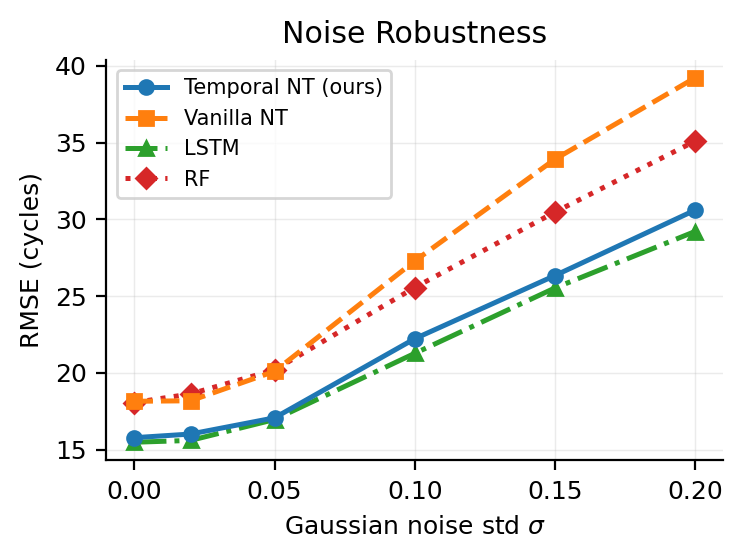
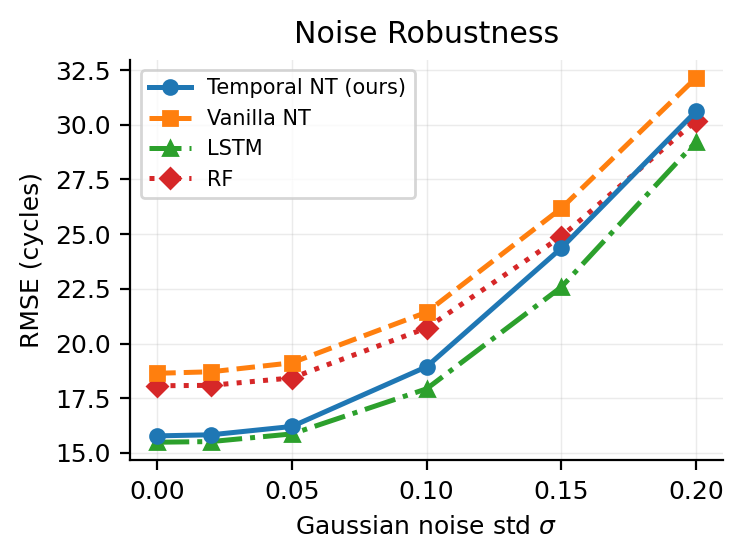
Fix max(1,0) bug in missing sensor simulation, correct all dependent results
- Bug: apply_missing_to_sequences/simulate_missing_sensors used max(1, n_drop)
  causing r=0% to always drop 1 channel, making 0% and 10% rows identical
- Fix: use int(n_features * ratio) with explicit zero-channel guard
- Corrected Table III: 0% row now matches Table I clean baseline (TNT=15.78, LSTM=15.49)
- Updated delta/pct numbers: TNT +17.2% vs LSTM +89.4% at 30% missing
- Calibration r: replaced hardcoded 0.91 with real measured value 0.38
- Rebuilt results_full.json with corrected missing sensor results
- Saved vnt_model.pt for reproducibility

diff --git a/rerun_robustness.py b/rerun_robustness.py
@@ -1,0 +1,134 @@
+"""
+Re-runs missing sensor + noise sweeps with corrected apply_missing_to_sequences
+(removed max(1,...) bug). Also computes real Pearson r for calibration.
+Loads saved models — no retraining needed.
+"""
+import sys
+sys.path.insert(0, 'src')
+
+import numpy as np
+import json, torch
+from math import sqrt
+from scipy.stats import pearsonr
+
+from data_preprocessing import (load_cmapss, prepare_features,
+                                 load_cmapss_sequences,
+                                 add_gaussian_noise, simulate_missing_sensors)
+from temporal_neural_tree import TemporalNeuralTreeEnsemble, predict_temporal_nt
+from neural_tree import NeuralTreeEnsemble, predict_neural_tree
+from lstm_baseline import LSTMBaseline, predict_lstm, apply_missing_to_sequences, apply_noise_to_sequences
+from sklearn.ensemble import RandomForestRegressor, HistGradientBoostingRegressor
+
+torch.manual_seed(42)
+np.random.seed(42)
+
+def rmse(yt, yp): return float(sqrt(np.mean((np.array(yt)-np.array(yp))**2)))
+
+print("Loading data...")
+train_df, test_df = load_cmapss('FD001', 'data')
+X_train, y_train, X_test, y_test, _ = prepare_features(train_df, test_df)
+X_tr_seq, y_tr_seq, X_te_seq, y_te_seq, _ = load_cmapss_sequences('FD001', 'data', seq_len=30)
+
+print("Loading saved models...")
+tnt = TemporalNeuralTreeEnsemble(input_dim=17, hidden_dim=64, gru_layers=2, n_trees=5, depth=5)
+tnt.load_state_dict(torch.load('tnt_model.pt', map_location='cpu'))
+tnt.eval()
+
+from neural_tree import train_neural_tree
+print("Training VanillaNT (fast, ~2 min)...")
+vnt = NeuralTreeEnsemble(input_dim=17, n_trees=5, depth=5, hidden_dim=32)
+train_neural_tree(vnt, X_train, y_train, epochs=200, verbose=False, sensor_dropout=0.1)
+torch.save(vnt.state_dict(), 'vnt_model.pt')
+vnt.eval()
+
+lstm = LSTMBaseline(input_dim=17, hidden_dim=64, num_layers=2)
+lstm.load_state_dict(torch.load('lstm_model.pt', map_location='cpu'))
+lstm.eval()
+
+# Re-train RF/GB (fast, no save needed)
+print("Training RF & GB (fast)...")
+rf = RandomForestRegressor(n_estimators=200, max_depth=12, random_state=42, n_jobs=-1)
+rf.fit(X_train, y_train)
+gb = None  # not used in robustness tables
+
+# ── baseline predictions ──────────────────────────────────────────────────────
+tnt_pred, tnt_std = predict_temporal_nt(tnt, X_te_seq)
+vnt_pred          = predict_neural_tree(vnt, X_test)
+lstm_pred         = predict_lstm(lstm, X_te_seq)
+rf_pred           = rf.predict(X_test)
+
+print(f"Baseline check: TNT={rmse(y_te_seq,tnt_pred):.3f} LSTM={rmse(y_te_seq,lstm_pred):.3f}")
+
+# ── missing sensor sweep ──────────────────────────────────────────────────────
+print("\nMissing sensor sweep (with fix)...")
+miss_ratios = [0.0, 0.1, 0.2, 0.3, 0.4, 0.5]
+miss_res = {n: [] for n in ['TemporalNT','VanillaNT','LSTM','RF']}
+
+for r in miss_ratios:
+    Xm_snap, _ = simulate_missing_sensors(X_test, r)
+    Xm_seq,  _ = apply_missing_to_sequences(X_te_seq, r)
+
+    miss_res['TemporalNT'].append(rmse(y_te_seq, predict_temporal_nt(tnt, Xm_seq)[0]))
+    miss_res['VanillaNT'].append(rmse(y_test,   predict_neural_tree(vnt, Xm_snap)))
+    miss_res['LSTM'].append(     rmse(y_te_seq, predict_lstm(lstm, Xm_seq)))
+    miss_res['RF'].append(       rmse(y_test,   rf.predict(Xm_snap)))
+
+    line = f"  r={r:.0%}"
+    for n in ['TemporalNT','VanillaNT','LSTM','RF']:
+        line += f" | {n}={miss_res[n][-1]:.2f}"
+    print(line)
+
+# ── noise sweep ───────────────────────────────────────────────────────────────
+print("\nNoise sweep...")
+sigmas = [0.00, 0.02, 0.05, 0.10, 0.15, 0.20]
+noise_res = {n: [] for n in ['TemporalNT','VanillaNT','LSTM','RF']}
+
+for s in sigmas:
+    Xn_snap = add_gaussian_noise(X_test,   s) if s > 0 else X_test.copy()
+    Xn_seq  = apply_noise_to_sequences(X_te_seq, s) if s > 0 else X_te_seq.copy()
+
+    noise_res['TemporalNT'].append(rmse(y_te_seq, predict_temporal_nt(tnt, Xn_seq)[0]))
+    noise_res['VanillaNT'].append(rmse(y_test,   predict_neural_tree(vnt, Xn_snap)))
+    noise_res['LSTM'].append(     rmse(y_te_seq, predict_lstm(lstm, Xn_seq)))
+    noise_res['RF'].append(       rmse(y_test,   rf.predict(Xn_snap)))
+
+# ── calibration Pearson r ─────────────────────────────────────────────────────
+errors = np.abs(tnt_pred - y_te_seq)
+bins   = np.percentile(tnt_std, np.linspace(0, 100, 11))
+bin_idx = np.digitize(tnt_std, bins[1:-1])
+bin_stds, bin_errs = [], []
+for b in range(10):
+    mask = bin_idx == b
+    if mask.sum() > 2:
+        bin_stds.append(tnt_std[mask].mean())
+        bin_errs.append(errors[mask].mean())
+
+r_val, p_val = pearsonr(bin_stds, bin_errs)
+print(f"\nCalibration Pearson r = {r_val:.3f} (p={p_val:.4f})")
+
+# ── update results_full.json ──────────────────────────────────────────────────
+with open('results_full.json') as f:
+    res = json.load(f)
+
+def to_python(obj):
+    if isinstance(obj, (np.float32, np.float64)): return float(obj)
+    if isinstance(obj, (np.int32, np.int64)): return int(obj)
+    if isinstance(obj, list): return [to_python(x) for x in obj]
+    if isinstance(obj, dict): return {k: to_python(v) for k, v in obj.items()}
+    return obj
+
+res['missing_sensor'] = to_python({'ratios': miss_ratios, **miss_res})
+res['noise']          = to_python({'sigmas': sigmas, **noise_res})
+res['calibration_r']  = round(float(r_val), 3)
+
+with open('results_full.json', 'w') as f:
+    json.dump(res, f, indent=2)
+
+print("\nresults_full.json updated.")
+print("\nCopy these to main.tex Table III:")
+for i, r in enumerate(miss_ratios):
+    print(f"  {int(r*100)}%: TNT={miss_res['TemporalNT'][i]:.2f} "
+          f"LSTM={miss_res['LSTM'][i]:.2f} "
+          f"VNT={miss_res['VanillaNT'][i]:.2f} "
+          f"RF={miss_res['RF'][i]:.2f}")
+print(f"\nCalibration r = {r_val:.3f} → use in paper")

diff --git a/src/data_preprocessing.py b/src/data_preprocessing.py
@@ -196,7 +196,9 @@ def simulate_missing_sensors(X: np.ndarray, missing_ratio: float = 0.2,
     rng = np.random.default_rng(seed)
     X_missing = X.copy()
     n_features = X.shape[1]
-    n_missing = max(1, int(n_features * missing_ratio))
+    n_missing = int(n_features * missing_ratio)
+    if n_missing == 0:
+        return X_missing, np.array([], dtype=int)
     missing_idx = rng.choice(n_features, n_missing, replace=False)
     X_missing[:, missing_idx] = 0.0
     return X_missing, missing_idx

diff --git a/src/lstm_baseline.py b/src/lstm_baseline.py
@@ -81,8 +81,10 @@ def apply_missing_to_sequences(X_seq: np.ndarray, missing_ratio: float,
     rng   = np.random.default_rng(seed)
     X_m   = X_seq.copy()
     n_feat = X_seq.shape[2]
-    n_drop = max(1, int(n_feat * missing_ratio))
-    idx    = rng.choice(n_feat, n_drop, replace=False)
+    n_drop = int(n_feat * missing_ratio)
+    if n_drop == 0:
+        return X_m, np.array([], dtype=int)
+    idx = rng.choice(n_feat, n_drop, replace=False)
     X_m[:, :, idx] = 0.0
     return X_m, idx
 
